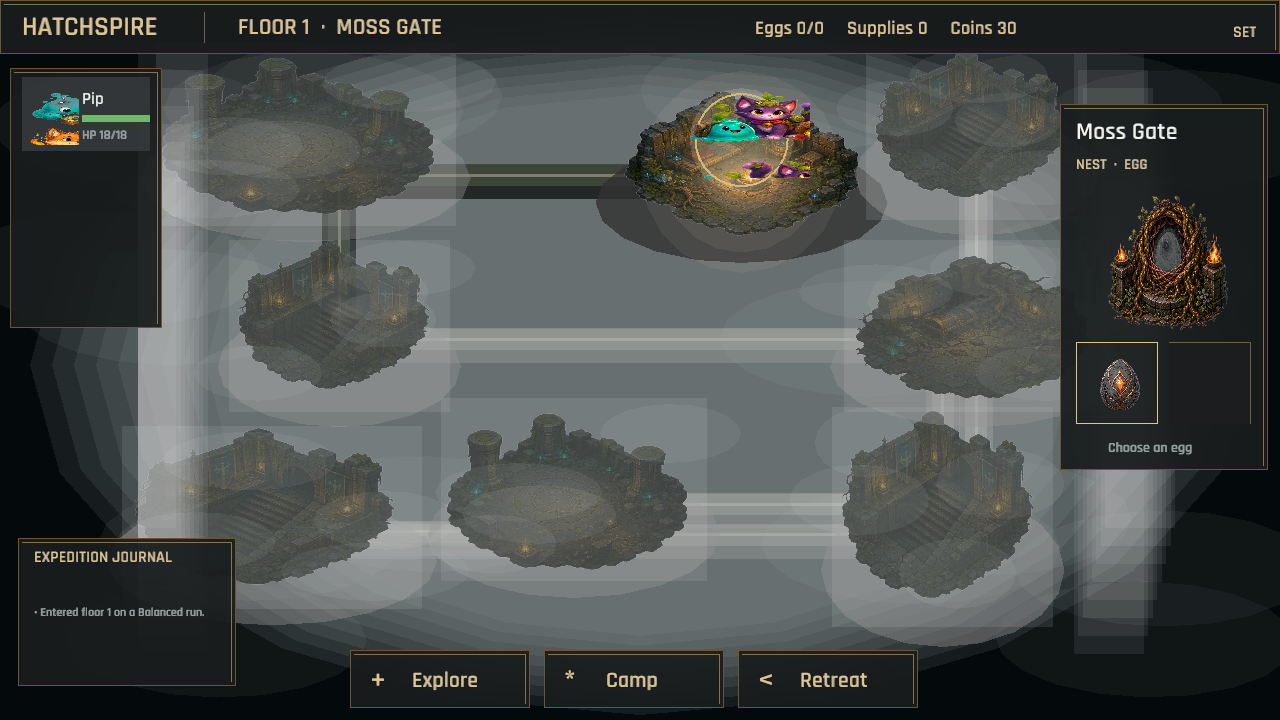
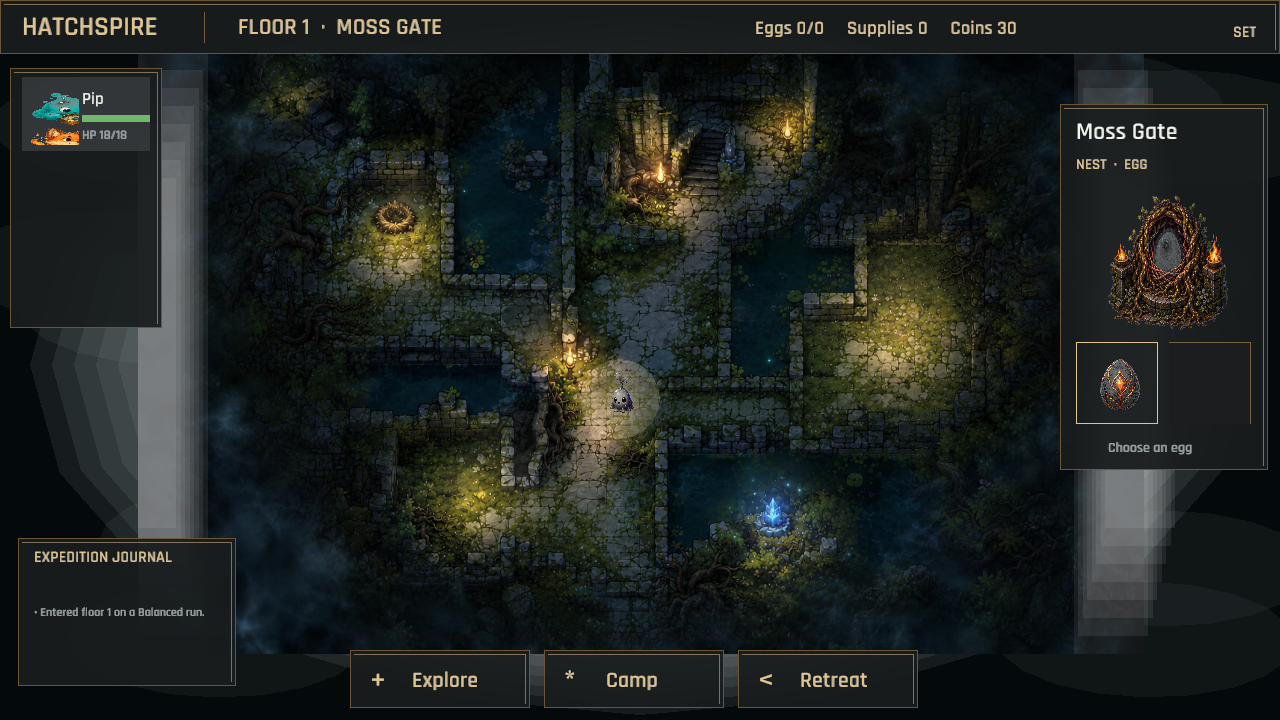
The Moss Gate's roads become one ruin instead of a diagram (continuous dungeon world plate and path alignment)
The previous renderer still treated chambers as floating nodes and drew their routes as straight geometric bars, which did not match the approved Moss Gate screenshot.

Add a dedicated HUD-free Moss Gate world plate generated from the approved composition, register it in the embedded atlas loader, and render live party, objects, fog, and input state over the continuous masonry scene. Anchor Floor 1 map coordinates to the plate's central crossroads and replace the oversized travel-party illustration with small canonical companion sprites.

The corrected plate preserves the broad central route, upper-left nest, upper stair, right courtyard, lower-left room, flooded lower-right shrine, water channels, ruined walls, roots, lighting, and edge fog. Verified with the replacement ui_tower capture, 20 passing tests, the 800-line guard, and the full publish.ps1 Windows/WebGL/deploy path.

diff --git a/src/screens/tower/map_view.rs b/src/screens/tower/map_view.rs
@@ -3,7 +3,7 @@ use macroquad::prelude::*;
 use super::TowerAction;
 use crate::assets::{self, DungeonBiome, DungeonRoomPurpose};
 use crate::state::{
-    TowerMapObject, TowerMapObjectKind, TowerMapState, TowerRoom, TowerRunState,
+    GameState, TowerMapObject, TowerMapObjectKind, TowerMapState, TowerRoom, TowerRunState,
     TowerTileVisibility,
 };
 use crate::ui;
@@ -16,7 +16,7 @@ struct WorldTransform {
     scale: Vec2,
 }
 
-pub(super) fn draw_map_world(run: &TowerRunState) {
+pub(super) fn draw_map_world(state: &GameState, run: &TowerRunState) {
     let map = &run.map;
     draw_world_backdrop(map.floor);
     if map.is_empty() {
@@ -31,10 +31,14 @@ pub(super) fn draw_map_world(run: &TowerRunState) {
     }
 
     let transform = world_transform(map);
-    draw_connectors(map, transform);
-    draw_rooms(map, transform);
+    if map.floor == 1 {
+        assets::draw_moss_gate_world(WORLD.x, WORLD.y, WORLD.w, WORLD.h);
+    } else {
+        draw_authoritative_ruin(map, transform);
+        draw_rooms(map, transform);
+    }
     draw_objects(map, transform);
-    draw_party(map, transform);
+    draw_party(state, map, transform);
     draw_world_fog(map);
 }
 
@@ -130,49 +134,116 @@ fn room_rect(room: TowerRoom, transform: WorldTransform) -> Rect {
     )
 }
 
-fn room_center(room: TowerRoom, transform: WorldTransform) -> Vec2 {
-    let rect = room_rect(room, transform);
-    vec2(rect.x + rect.w * 0.5, rect.y + rect.h * 0.58)
-}
-
-fn draw_connectors(map: &TowerMapState, transform: WorldTransform) {
+fn draw_authoritative_ruin(map: &TowerMapState, transform: WorldTransform) {
+    draw_water_channels(map);
     for (index, pair) in map.rooms.windows(2).enumerate() {
         let a = room_center(pair[0], transform);
         let b = room_center(pair[1], transform);
-        let visibility = pair_visibility(map, pair[0], pair[1]);
-        if visibility == TowerTileVisibility::Hidden && index > 5 {
-            continue;
-        }
-        let alpha = if visibility == TowerTileVisibility::Visible {
-            235
+        let corner = if (map.seed as usize + index).is_multiple_of(2) {
+            vec2(b.x, a.y)
         } else {
-            105
+            vec2(a.x, b.y)
         };
-        draw_line(
-            a.x,
-            a.y + 7.0,
-            b.x,
-            a.y + 7.0,
-            34.0,
-            color(10, 15, 14, alpha),
-        );
-        draw_line(b.x, a.y + 7.0, b.x, b.y, 34.0, color(10, 15, 14, alpha));
-        draw_line(a.x, a.y, b.x, a.y, 22.0, color(47, 55, 41, alpha));
-        draw_line(b.x, a.y, b.x, b.y, 22.0, color(47, 55, 41, alpha));
-        draw_line(a.x, a.y, b.x, a.y, 3.0, color(111, 96, 55, alpha / 2));
-        draw_line(b.x, a.y, b.x, b.y, 3.0, color(111, 96, 55, alpha / 2));
+        draw_cobbled_segment(map, a, corner, index * 2);
+        draw_cobbled_segment(map, corner, b, index * 2 + 1);
+        draw_courtyard(corner, 46.0, map.seed as usize + index);
+    }
+    for room in &map.rooms {
+        draw_courtyard(room_center(*room, transform), 70.0, room.start_x as usize);
     }
 }
 
-fn pair_visibility(map: &TowerMapState, a: TowerRoom, b: TowerRoom) -> TowerTileVisibility {
-    let va = map.visibility_at(a.center().0, a.center().1);
-    let vb = map.visibility_at(b.center().0, b.center().1);
-    if va == TowerTileVisibility::Visible || vb == TowerTileVisibility::Visible {
-        TowerTileVisibility::Visible
-    } else if va == TowerTileVisibility::Explored || vb == TowerTileVisibility::Explored {
-        TowerTileVisibility::Explored
-    } else {
-        TowerTileVisibility::Hidden
+fn room_center(room: TowerRoom, transform: WorldTransform) -> Vec2 {
+    let rect = room_rect(room, transform);
+    vec2(rect.x + rect.w * 0.5, rect.y + rect.h * 0.62)
+}
+
+fn draw_water_channels(map: &TowerMapState) {
+    draw_rectangle(WORLD.x, WORLD.y, WORLD.w, WORLD.h, color(4, 23, 29, 168));
+    for pool in 0..18 {
+        let seed = pool as u32 * 37 + map.floor * 19 + map.seed as u32;
+        let x = WORLD.x + (seed % 997) as f32 / 997.0 * WORLD.w;
+        let y = WORLD.y + (seed.wrapping_mul(17) % 991) as f32 / 991.0 * WORLD.h;
+        draw_circle(x, y, 3.0 + (seed % 5) as f32, color(58, 91, 67, 75));
+    }
+}
+
+fn draw_cobbled_segment(map: &TowerMapState, start: Vec2, end: Vec2, seed: usize) {
+    let delta = end - start;
+    let length = delta.length();
+    if length < 3.0 {
+        return;
+    }
+    let direction = delta / length;
+    let normal = vec2(-direction.y, direction.x);
+    draw_line(
+        start.x,
+        start.y + 6.0,
+        end.x,
+        end.y + 6.0,
+        112.0,
+        color(2, 7, 8, 205),
+    );
+    draw_line(
+        start.x,
+        start.y,
+        end.x,
+        end.y,
+        100.0,
+        color(27, 37, 32, 255),
+    );
+    draw_line(start.x, start.y, end.x, end.y, 88.0, color(57, 64, 51, 255));
+    draw_line(start.x, start.y, end.x, end.y, 3.0, color(111, 108, 75, 80));
+    let steps = (length / 24.0).ceil() as usize;
+    for step in 0..=steps {
+        let t = step as f32 / steps.max(1) as f32;
+        let hash = seed * 97 + step * 41 + map.seed as usize;
+        for lane in -2_i32..=2 {
+            let jitter = ((hash + lane.unsigned_abs() as usize * 13) % 11) as f32 - 5.0;
+            let center = start + delta * t + normal * (lane as f32 * 16.0 + jitter);
+            let stone_w = 12.0 + (hash % 8) as f32;
+            let stone_h = 8.0 + ((hash / 3) % 7) as f32;
+            draw_rectangle(
+                center.x - stone_w * 0.5,
+                center.y - stone_h * 0.5,
+                stone_w,
+                stone_h,
+                color(76, 79, 61, 190),
+            );
+            draw_rectangle_lines(
+                center.x - stone_w * 0.5,
+                center.y - stone_h * 0.5,
+                stone_w,
+                stone_h,
+                1.0,
+                color(24, 31, 27, 180),
+            );
+        }
+    }
+}
+
+fn draw_courtyard(center: Vec2, radius: f32, seed: usize) {
+    draw_circle(center.x, center.y + 6.0, radius + 10.0, color(2, 7, 8, 205));
+    draw_circle(center.x, center.y, radius, color(55, 62, 49, 255));
+    for ring in 1..=3 {
+        draw_circle_lines(
+            center.x,
+            center.y,
+            radius * ring as f32 / 3.0,
+            2.0,
+            color(90, 87, 61, 100),
+        );
+    }
+    for spoke in 0..8 {
+        let angle = spoke as f32 * std::f32::consts::TAU / 8.0 + seed as f32 * 0.03;
+        draw_line(
+            center.x,
+            center.y,
+            center.x + angle.cos() * radius,
+            center.y + angle.sin() * radius,
+            1.0,
+            color(23, 31, 26, 150),
+        );
     }
 }
 
@@ -190,7 +261,6 @@ fn draw_rooms(map: &TowerMapState, transform: WorldTransform) {
             TowerTileVisibility::Explored => color(120, 133, 119, 220),
             TowerTileVisibility::Hidden => color(132, 143, 118, 225),
         };
-        draw_room_shadow(rect, visibility);
         assets::draw_dungeon_room(biome, purpose, rect.x, rect.y, rect.w, rect.h, tint);
         if visibility == TowerTileVisibility::Hidden {
             draw_rectangle(rect.x, rect.y, rect.w, rect.h, color(3, 12, 14, 30));
@@ -220,22 +290,6 @@ fn draw_room_mist(rect: Rect, seed: usize) {
             color(31, 49, 51, 15),
         );
     }
-}
-
-fn draw_room_shadow(rect: Rect, visibility: TowerTileVisibility) {
-    let alpha = if visibility == TowerTileVisibility::Hidden {
-        105
-    } else {
-        205
-    };
-    draw_ellipse(
-        rect.x + rect.w * 0.5,
-        rect.y + rect.h * 0.74,
-        rect.w * 0.55,
-        rect.h * 0.35,
-        0.0,
-        color(0, 0, 0, alpha),
-    );
 }
 
 fn draw_light_pool(x: f32, y: f32, radius: f32, purpose: DungeonRoomPurpose) {
@@ -279,8 +333,9 @@ fn draw_objects(map: &TowerMapState, transform: WorldTransform) {
         if !map.is_visible(object.x, object.y) {
             continue;
         }
-        let x = transform.origin.x + object.x as f32 * transform.scale.x;
-        let y = transform.origin.y + object.y as f32 * transform.scale.y;
+        let position = map_point(map, transform, object.x, object.y);
+        let x = position.x;
+        let y = position.y;
         let size = match object.kind {
             TowerMapObjectKind::Boss => 82.0,
             TowerMapObjectKind::Stairs | TowerMapObjectKind::Exit => 70.0,
@@ -327,12 +382,39 @@ fn draw_object_glow(x: f32, y: f32, size: f32, kind: TowerMapObjectKind) {
     draw_circle(x, y, size * 0.62, color(rgb.0, rgb.1, rgb.2, 31));
 }
 
-fn draw_party(map: &TowerMapState, transform: WorldTransform) {
-    let x = transform.origin.x + map.player_x as f32 * transform.scale.x;
-    let y = transform.origin.y + map.player_y as f32 * transform.scale.y;
-    draw_circle(x, y + 6.0, 52.0, color(245, 194, 83, 28));
-    draw_circle_lines(x, y + 6.0, 45.0, 2.0, color(226, 188, 92, 210));
-    assets::draw_party_marker(0, x - 68.0, y - 47.0, 136.0, 91.0);
+fn draw_party(state: &GameState, map: &TowerMapState, transform: WorldTransform) {
+    let position = map_point(map, transform, map.player_x, map.player_y);
+    let x = position.x;
+    let y = position.y;
+    draw_circle(x, y + 4.0, 40.0, color(245, 194, 83, 25));
+    let members: Vec<_> = state
+        .monster_roster
+        .party_slots
+        .iter()
+        .flatten()
+        .filter_map(|id| state.monster_roster.monster(*id))
+        .take(3)
+        .collect();
+    for (index, monster) in members.iter().enumerate() {
+        let offset = (index as f32 - (members.len().saturating_sub(1)) as f32 * 0.5) * 32.0;
+        assets::draw_monster_sprite(&monster.species_id, x + offset - 25.0, y - 30.0, 50.0);
+    }
+}
+
+fn map_point(map: &TowerMapState, transform: WorldTransform, x: u32, y: u32) -> Vec2 {
+    if map.floor == 1 {
+        let offset_x = x as i32 - map.start_x as i32;
+        let offset_y = y as i32 - map.start_y as i32;
+        vec2(
+            620.0 + offset_x as f32 * 18.0,
+            395.0 + offset_y as f32 * 18.0,
+        )
+    } else {
+        vec2(
+            transform.origin.x + x as f32 * transform.scale.x,
+            transform.origin.y + y as f32 * transform.scale.y,
+        )
+    }
 }
 
 fn draw_world_fog(map: &TowerMapState) {

diff --git a/src/assets/mod.rs b/src/assets/mod.rs
@@ -21,6 +21,7 @@ const HAZARDS: &str = "hazards";
 const RECOVERY_SCENES: &str = "recovery_scenes";
 const BOSS_REWARDS: &str = "boss_rewards";
 const PURPOSE_ROOMS: &str = "purpose_rooms";
+const MOSS_GATE_WORLD: &str = "moss_gate_world";
 
 #[derive(Clone, Copy, Debug, Eq, PartialEq)]
 pub enum DungeonBiome {
@@ -96,6 +97,10 @@ pub fn draw_monster_badge(species_id: &str, x: f32, y: f32, size: f32) {
         _ => 0,
     };
     draw_atlas(MONSTERS, 2, 3, index, x, y, size, size);
+}
+
+pub fn draw_monster_sprite(species_id: &str, x: f32, y: f32, size: f32) {
+    draw_monster_badge(species_id, x, y, size);
 }
 
 /// Draws one of the twelve named egg designs, rather than a seed-coloured blob.
@@ -218,6 +223,20 @@ pub fn draw_dungeon_room(
             tint,
         );
     }
+}
+
+pub fn draw_moss_gate_world(x: f32, y: f32, width: f32, height: f32) {
+    let texture = texture(MOSS_GATE_WORLD);
+    draw_texture_ex(
+        &texture,
+        x,
+        y,
+        WHITE,
+        DrawTextureParams {
+            dest_size: Some(vec2(width, height)),
+            ..Default::default()
+        },
+    );
 }
 
 pub fn draw_dungeon_fog(index: usize, x: f32, y: f32, width: f32, height: f32) {
@@ -360,6 +379,9 @@ fn asset_bytes(asset: &str) -> &'static [u8] {
         }
         PURPOSE_ROOMS => {
             include_bytes!("../../assets/generated/dungeon/dungeon_room_module_atlas_v1.png")
+        }
+        MOSS_GATE_WORLD => {
+            include_bytes!("../../assets/generated/dungeon/moss_gate_world_plate_v1.png")
         }
         _ => unreachable!("unknown visual asset"),
     }

diff --git a/src/screens/tower.rs b/src/screens/tower.rs
@@ -69,7 +69,7 @@ pub fn handle_input(state: &GameState) -> Option<TowerAction> {
 
 pub fn draw(state: &GameState, data: &GameData, status_message: &str) {
     if let Some(run) = &state.tower_run {
-        map_view::draw_map_world(run);
+        map_view::draw_map_world(state, run);
         draw_run_overlay(state, data, run);
         draw_party_rail(state);
         draw_action_dock();

diff --git a/docs/dungeon_mockup_alignment_plan.md b/docs/dungeon_mockup_alignment_plan.md
@@ -24,6 +24,7 @@ The target is the world-first dungeon composition represented by `docs/ui_refere
 - The top resource bar, compact party rail, right landmark drawer, expedition journal, and three-button touch dock now follow the mockup's placement, scale, black-gold framing, and visual hierarchy.
 - Tapping a visible room converts its world-space target into an authoritative one-tile movement step; keyboard movement remains a secondary input path without appearing in player-facing text.
 - The verified acceptance capture is `docs/verification/ui_tower.png`.
+- The Moss Gate acceptance floor now uses `moss_gate_world_plate_v1.png`, a dedicated HUD-free continuous ruin plate derived directly from the approved screenshot. This replaces the visibly incorrect floating-room and rectangular corridor reconstructions while live party, object, fog, and input state remain code-driven overlays.
 
 ## Phases
 
